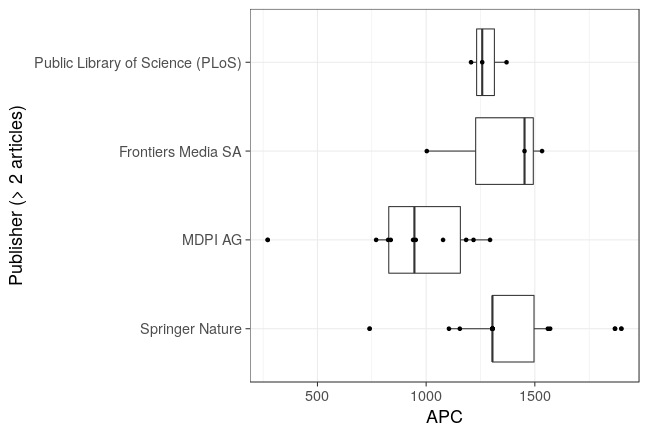
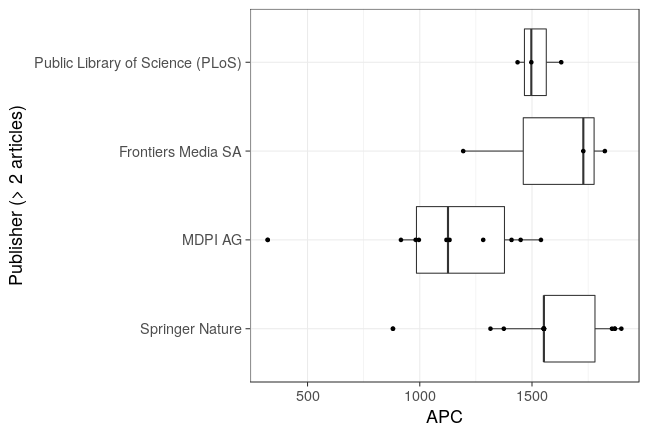
tu_darmstadt: cost corrections

diff --git a/_posts/2018-04-13-darmstadt.md b/_posts/2018-04-13-darmstadt.md
@@ -22,20 +22,20 @@ Contact Person is [Gerald Langhanke](mailto:oa-fonds@ulb.tu-darmstadt.de).
 
 
 
-The initial datasets provided by the ULB covers publication fees for 35 articles published in 2017. Total expenditure amounts to 41 591€ and the average fee is 1 188€.
+The initial datasets provided by the ULB covers publication fees for 35 articles published in 2017. Total expenditure amounts to 48 777€ and the average fee is 1 394€.
 
 
 |                                 | Articles| Fees paid in EURO| Mean Fee paid|
 |:--------------------------------|--------:|-----------------:|-------------:|
-|Springer Nature                  |       14|             19032|          1359|
-|MDPI AG                          |       10|              9369|           937|
-|Frontiers Media SA               |        3|              3989|          1330|
-|Public Library of Science (PLoS) |        3|              3834|          1278|
-|Copernicus GmbH                  |        1|              1620|          1620|
-|IOP Publishing                   |        1|              1014|          1014|
-|PeerJ                            |        1|               722|           722|
-|Walter de Gruyter GmbH           |        1|               190|           190|
-|Wiley-Blackwell                  |        1|              1820|          1820|
+|Springer Nature                  |       14|             21933|          1567|
+|MDPI AG                          |       10|             11149|          1115|
+|Frontiers Media SA               |        3|              4747|          1582|
+|Public Library of Science (PLoS) |        3|              4563|          1521|
+|Copernicus GmbH                  |        1|              1928|          1928|
+|IOP Publishing                   |        1|              1207|          1207|
+|PeerJ                            |        1|               860|           860|
+|Walter de Gruyter GmbH           |        1|               226|           226|
+|Wiley-Blackwell                  |        1|              2166|          2166|
 
 ## Overview
 
